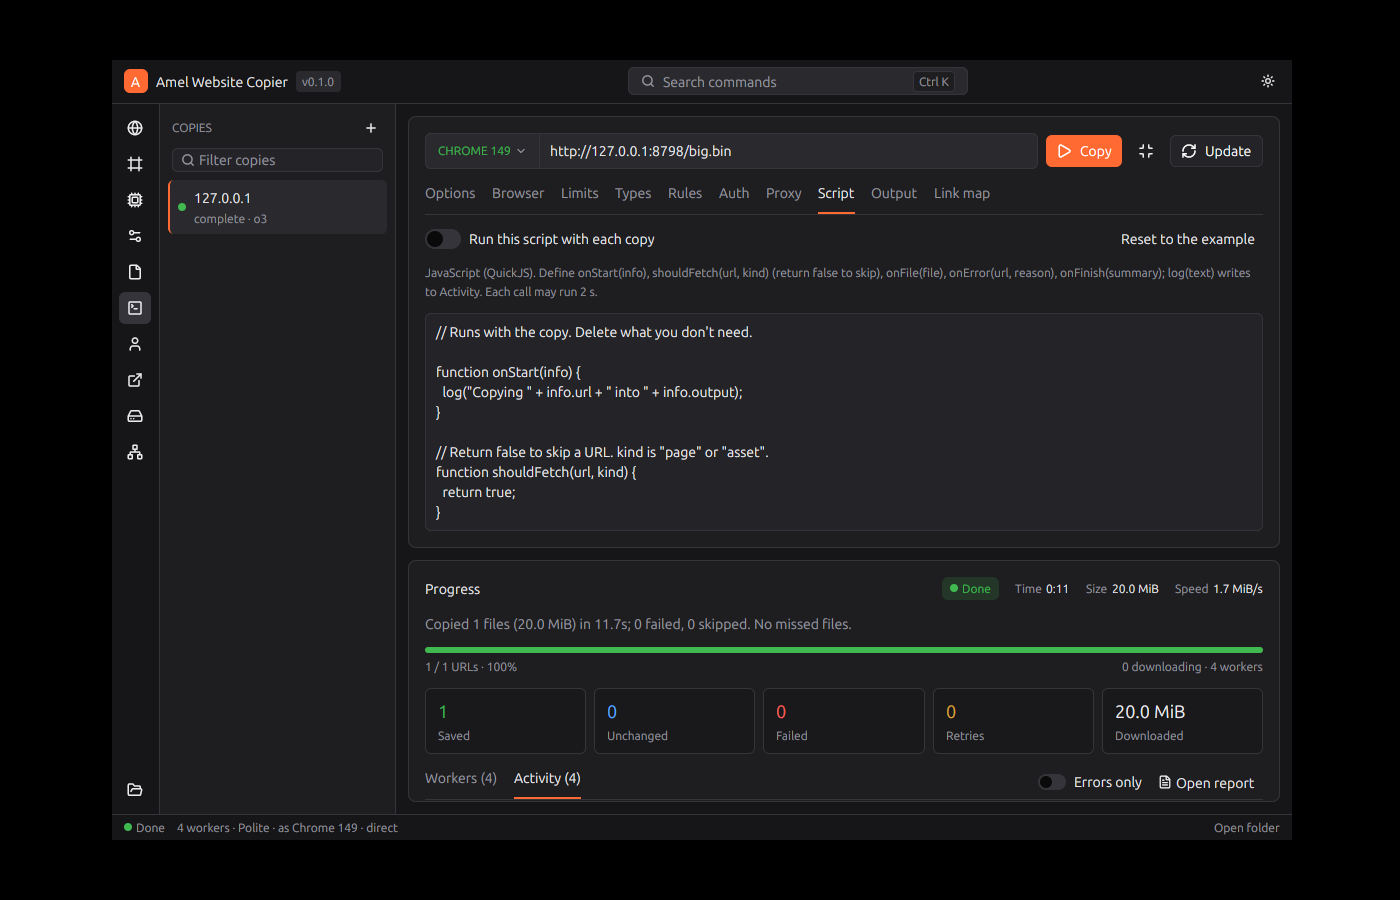
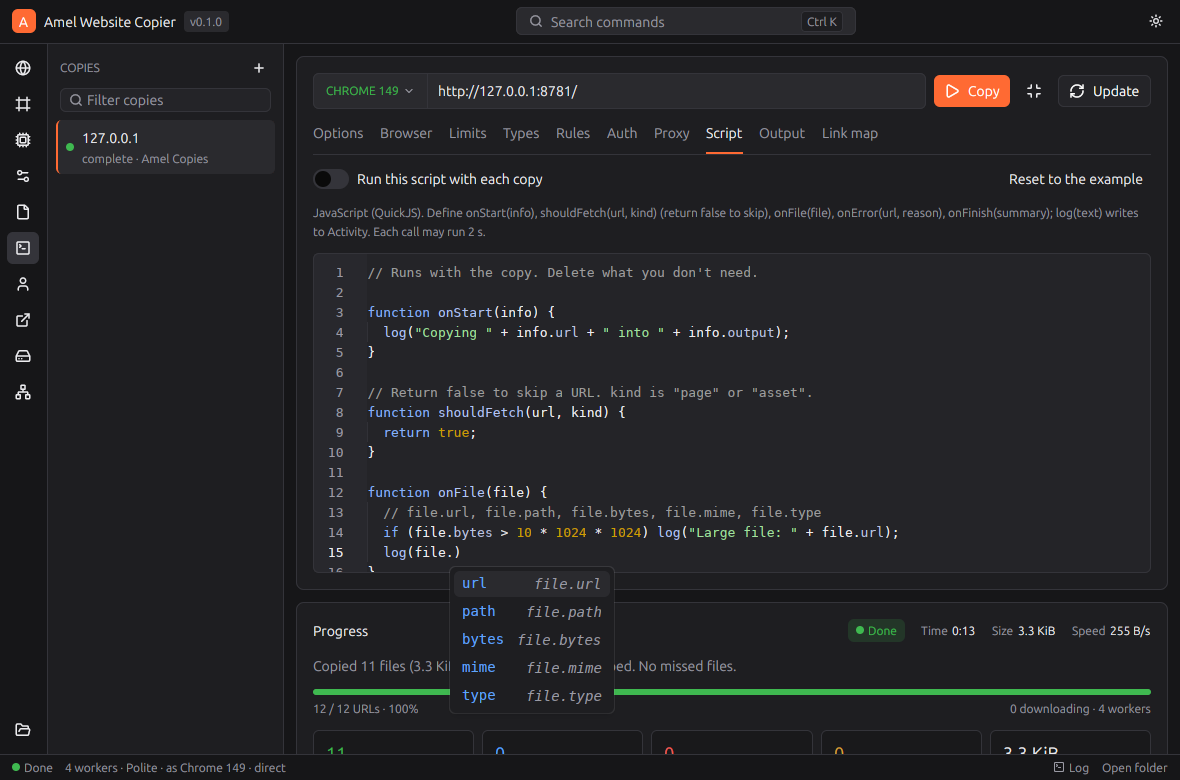
Docs: fresh screenshots and a gallery in the README
Retake every screenshot after the rename: a copy in progress, a finished
copy in the light theme, the log panel, the script editor with field
suggestions, the mini window and each settings tab. The README shows
the copy in progress at the top and the rest in a gallery under the
desktop app, the status reflects M0-M5 done, and the crate table lists
mc-script. Drop the old title-bar and options shots that still showed
the MisterCopy name.

diff --git a/README.md b/README.md
@@ -2,7 +2,9 @@
 
 A lightweight website copier for offline browsing, written in Rust. See [PLAN.md](PLAN.md) for the design and milestones.
 
-**Status:** M3. Amel copies sites through a browser-impersonating HTTP client and rewrites their links to work offline. It retries transient failures, respects robots.txt, can stop and resume, updates a copy by downloading only what changed, and writes a report. With the `browser` feature it also renders JavaScript-built pages in Chromium and can log in through a real browser. The desktop app (M4) does all of this from a window, and copies can also be saved as WARC archives or zip files (M5).
+**Status:** M0–M5 done, M6 (distribution) in progress. Amel copies sites through a browser-impersonating HTTP client and rewrites their links to work offline. It retries transient failures, respects robots.txt, can stop and resume, updates a copy by downloading only what changed, and writes a report. With the `browser` feature it also renders JavaScript-built pages in Chromium and can log in through a real browser. The desktop app does all of this from a window, and copies can also be saved as WARC archives or zip files.
+
+![A copy in progress: four workers, the progress bar and live counters](docs/screenshots/copying-dark.png)
 
 ## Install
 
@@ -122,6 +124,23 @@ Build with `--features browser` to add a **Render JavaScript** option, which use
 
 On Linux the app needs the X11, Wayland and Vulkan development packages (`libxkbcommon-x11-dev libx11-xcb-dev libwayland-dev libvulkan-dev` on Debian/Ubuntu).
 
+#### Screenshots
+
+| | |
+|---|---|
+| ![Finished copy in the light theme, with the Activity list](docs/screenshots/done-light.png) | ![The log panel open under a finished copy](docs/screenshots/log-panel.png) |
+| Finished copy, light theme | Log panel |
+| ![Script tab: highlighted JavaScript and field suggestions after file.](docs/screenshots/script-tab.png) | ![Mini window over a paused copy](docs/screenshots/mini-paused.png) |
+| Script editor with suggestions | Mini window, paused |
+| ![Browser tab: browser, version and platform to impersonate](docs/screenshots/browser-tab.png) | ![Types tab: file types and size limits](docs/screenshots/types-tab.png) |
+| Browser to impersonate | File types and size limits |
+| ![Limits tab](docs/screenshots/limits-tab.png) | ![Rules tab with the URL tester](docs/screenshots/rules-tab.png) |
+| Limits | Rules and the URL tester |
+| ![Auth tab](docs/screenshots/auth-tab.png) | ![Proxy tab](docs/screenshots/proxy-tab.png) |
+| Auth | Proxies |
+| ![Output tab](docs/screenshots/output-tab.png) | ![Link map tab](docs/screenshots/linkmap-tab.png) |
+| Output: WARC and zip | Link map |
+
 ### JavaScript sites
 
 Build with the `browser` feature to render pages in Chromium through Playwright. The first build downloads the Playwright driver (about 135 MB) into `~/.cache/playwright-rust/`.
@@ -221,6 +240,8 @@ Exit codes:
 
 Files over 4 MiB are written to disk as they arrive, not kept in memory, under the copy's `.amel/partial/` folder. If the connection drops, the retry asks the server only for the rest (`Range`, guarded by `If-Range` so a changed file starts over), and the pieces are joined. In the app, each worker's row shows a progress bar for its file, such as "11.1 MiB / 20.0 MiB", and Size and Speed count what has arrived so far.
 
+![A worker downloading a 20 MB file: 11.1 MiB / 20.0 MiB](docs/screenshots/file-progress.png)
+
 ### Scripts
 
 A small JavaScript engine (QuickJS) runs hooks with a copy: `--script hooks.js` on the command line, or the **Script** tab in the app, which has an editable example. Define any of these:
@@ -247,10 +268,11 @@ The commands are now `amel` and `amel-gui`, and the settings live in `~/.config/
 | `crates/mc-requester-wreq` | The default requester: wreq with browser TLS/HTTP2 fingerprints |
 | `crates/mc-requester-playwright` | The browser requester: Chromium via Playwright (`browser` feature) |
 | `crates/mc-extract` | Finds and rewrites URLs in HTML and CSS |
-| `crates/mc-core` | The crawler: rules, URL → file path mapping, retries, robots.txt, limits, link rewriting, reports |
+| `crates/mc-core` | The crawler: rules, file types, URL → file path mapping, retries and slow-down, robots.txt, limits, link rewriting, reports, event descriptions for logs |
 | `crates/mc-store` | Crawl state in SQLite, for resume and update |
+| `crates/mc-script` | JavaScript hooks for copies, run in QuickJS |
 | `crates/mc-cli` | The `amel` binary |
-| `crates/mc-gui` | The `amel-gui` desktop app (gpui-kit) |
+| `crates/mc-gui` | The `amel-gui` desktop app (gpui-kit), with its log panel, script editor highlighting and completion |
 | `fixtures` | Local test websites and the server that hosts them (`mc-fixtures`), including `hostile`, a site full of traps, and `spa`, a JavaScript app |
 
 ## Development

diff --git a/PLAN.md b/PLAN.md
@@ -458,6 +458,8 @@ Amel does not solve CAPTCHAs or interactive challenges, and the docs say users s
   - Checked:
     - 176 tests
     - In a nested X server: the colors per token kind, the `file.b` → `bytes` completion popup, and the column scrolling with the Script tab open.
+  - Ctrl+Space opens the suggestions (gpui-kit binds no key for it); with nothing typed they list every hook and keyword.
+- **Docs and screenshots (2026-11-16):** the README has a screenshot of a copy in progress and a gallery of every tab, the log panel, the script editor and the mini window, all retaken after the rename. The crate table lists `mc-script`.
 
 ## 10. Risks & open questions
 - **Dependency churn:** wreq's versioning has jumped around (5.x → 6.0-rc → 0.1x), playwright-rs is pre-1.0 and GPUI is pre-1.0 too. Mitigations: exact version pins, each kept behind our own crate boundary, and Renovate PRs gated by the fixture suite.
